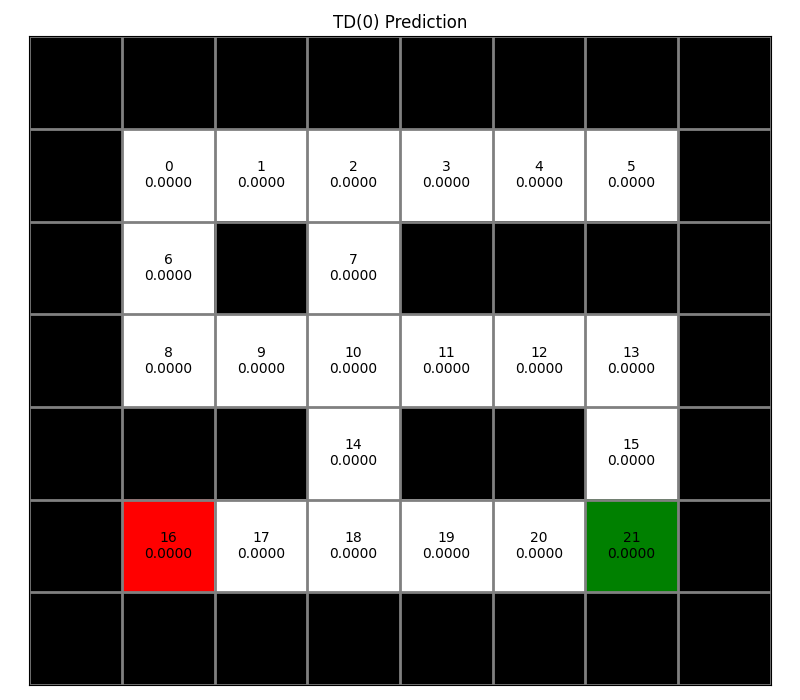
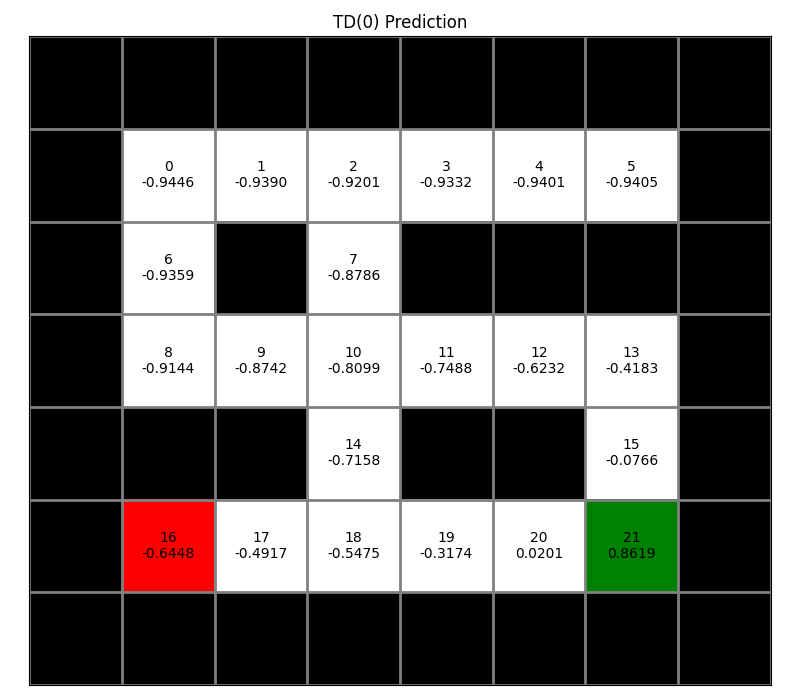
Finish TD(0)

diff --git a/rl_hw2/algorithms.py b/rl_hw2/algorithms.py
@@ -71,12 +71,9 @@ class MonteCarloPrediction(ModelFreePrediction):
         """Run the algorithm until max_episode"""
         # TODO: Update self.values with first-visit Monte-Carlo method
         current_state = self.grid_world.reset()
-
         N = np.zeros(self.state_space)
-
         while self.episode_counter < self.max_episode:
             pi = []
-
             done = False
             while not done:
                 next_state, reward, done = self.collect_data()
@@ -85,7 +82,6 @@ class MonteCarloPrediction(ModelFreePrediction):
 
             G = 0
             returns = np.zeros(self.state_space)
-
             for t in reversed(range(len(pi))):
                 s, r = pi[t]
                 G = self.discount_factor * G + r
@@ -119,9 +115,11 @@ class TDPrediction(ModelFreePrediction):
         # TODO: Update self.values with TD(0) Algorithm
         current_state = self.grid_world.reset()
         while self.episode_counter < self.max_episode:
-            next_state, reward, done = self.collect_data()
-            continue
-
+            done = False
+            while not done:
+                next_state, reward, done = self.collect_data()
+                self.values[current_state] += self.lr * (reward + (0 if done else self.discount_factor * self.values[next_state]) - self.values[current_state])
+                current_state = next_state
 
 class NstepTDPrediction(ModelFreePrediction):
     def __init__(
